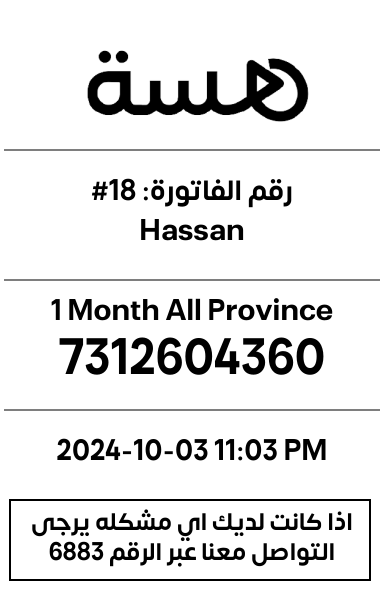
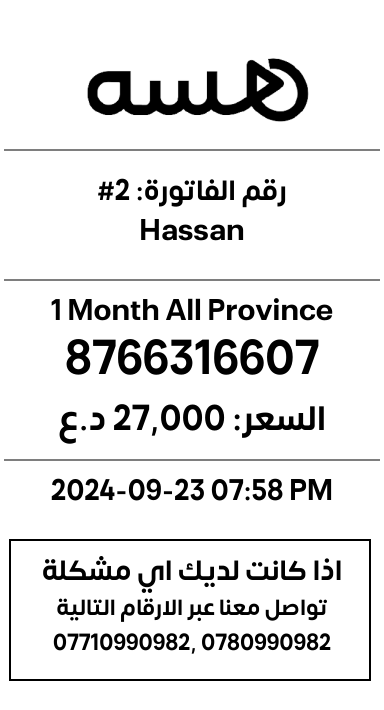
update

Changed region(s): [[0.0, 0.0623, 1.0, 0.9656]]

diff --git a/routers/POS.js b/routers/POS.js
@@ -395,7 +395,7 @@ router.post("/refresh", sellerAuth, async (req, res) => {
 router.get("/invoice/:id", async (req, res) => {
   let id = req.params.id || 0;
   const width = 384;
-  const height = 610;
+  const height = 710;
   const padding = 0;
 
   try {
@@ -408,15 +408,16 @@ router.get("/invoice/:id", async (req, res) => {
       },
     });
 
-    const logoPath = "assets/logo.png"; // Path to logo image
+    const logoPath = "assets/logo2.png"; // Path to logo image
     const companyName = payment?.seller?.name;
     const invoiceNumber = `#${payment?.id}`;
     const cardName = payment?.item?.details?.title;
     const cardCode = payment?.item?.code;
+    const price = payment?.price;
     const date = dayjs(payment?.createtAt).format("YYYY-MM-DD hh:mm A");
-    const msg = "اذا كانت لديك اي مشكله يرجى التواصل معنا عبر الرقم 6233";
+    const phone = "07710990982, 0780990982";
 
-    const lines = msg.match(/.{1,28}/g); // Adjust 40 to your preferred line length
+    //const lines = msg.match(/.{1,29}/g); // Adjust 40 to your preferred line length
 
     // Create Arabic text as an SVG with matching width
     const textSvg = Buffer.from(`
@@ -431,12 +432,17 @@ router.get("/invoice/:id", async (req, res) => {
             }
 
             .code{
-              font-size: 48px;
+              font-size: 46px;
               font-weight: bold;
+            }
+            .price{
+              font-size: 34px;
+              font-weight: bold;
+              direction: rtl;
             }
             .msg{
           font-family: 'Somar Sans', sans-serif;
-              font-size: 24px;
+              font-size: 22px;
               font-weight: bold;
             }
         </style>
@@ -446,22 +452,14 @@ router.get("/invoice/:id", async (req, res) => {
         <line x1="4" y1="280" x2="380" y2="280" stroke="black" stroke-width="1" />
         <text x="50%" y="320" class="compnay" text-anchor="middle">${cardName}</text>
         <text x="50%" y="374" class="code" text-anchor="middle">${cardCode}</text>
-        <line x1="4" y1="410" x2="380" y2="410" stroke="black" stroke-width="1" />
-        <text x="50%" y="460" class="compnay" text-anchor="middle">${date}</text>
-
-        <rect x="10" y="500" width="360" height="${
-          lines.length * 40
-        }" stroke="black" fill="none" stroke-width="2"/>
-        ${lines
-          .map(
-            (line, index) => `
-          <text class="msg" x="50%" y="${
-            530 + index * 30
-          }" text-anchor="middle" fill="black">${line}</text>
-        `
-          )
-          .join("")}
-
+        <text x="50%" y="430" class="price" text-anchor="middle">السعر: ${Number(price).toLocaleString("en")} د.ع </text>
+        <line x1="4" y1="460" x2="380" y2="460" stroke="black" stroke-width="1" />
+        <text x="50%" y="500" class="compnay" text-anchor="middle">${date}</text>
+        
+        <rect x="10" y="540" width="360" height="140" stroke="black" fill="none" stroke-width="2"/>
+        <text x="50%" y="580" class="compnay" text-anchor="middle">اذا كانت لديك اي مشكلة</text>
+        <text x="50%" y="615" class="msg" text-anchor="middle">تواصل معنا عبر الارقام التالية</text>
+        <text x="50%" y="650" class="msg" text-anchor="middle">${phone}</text>
       </svg>
     `);
 
